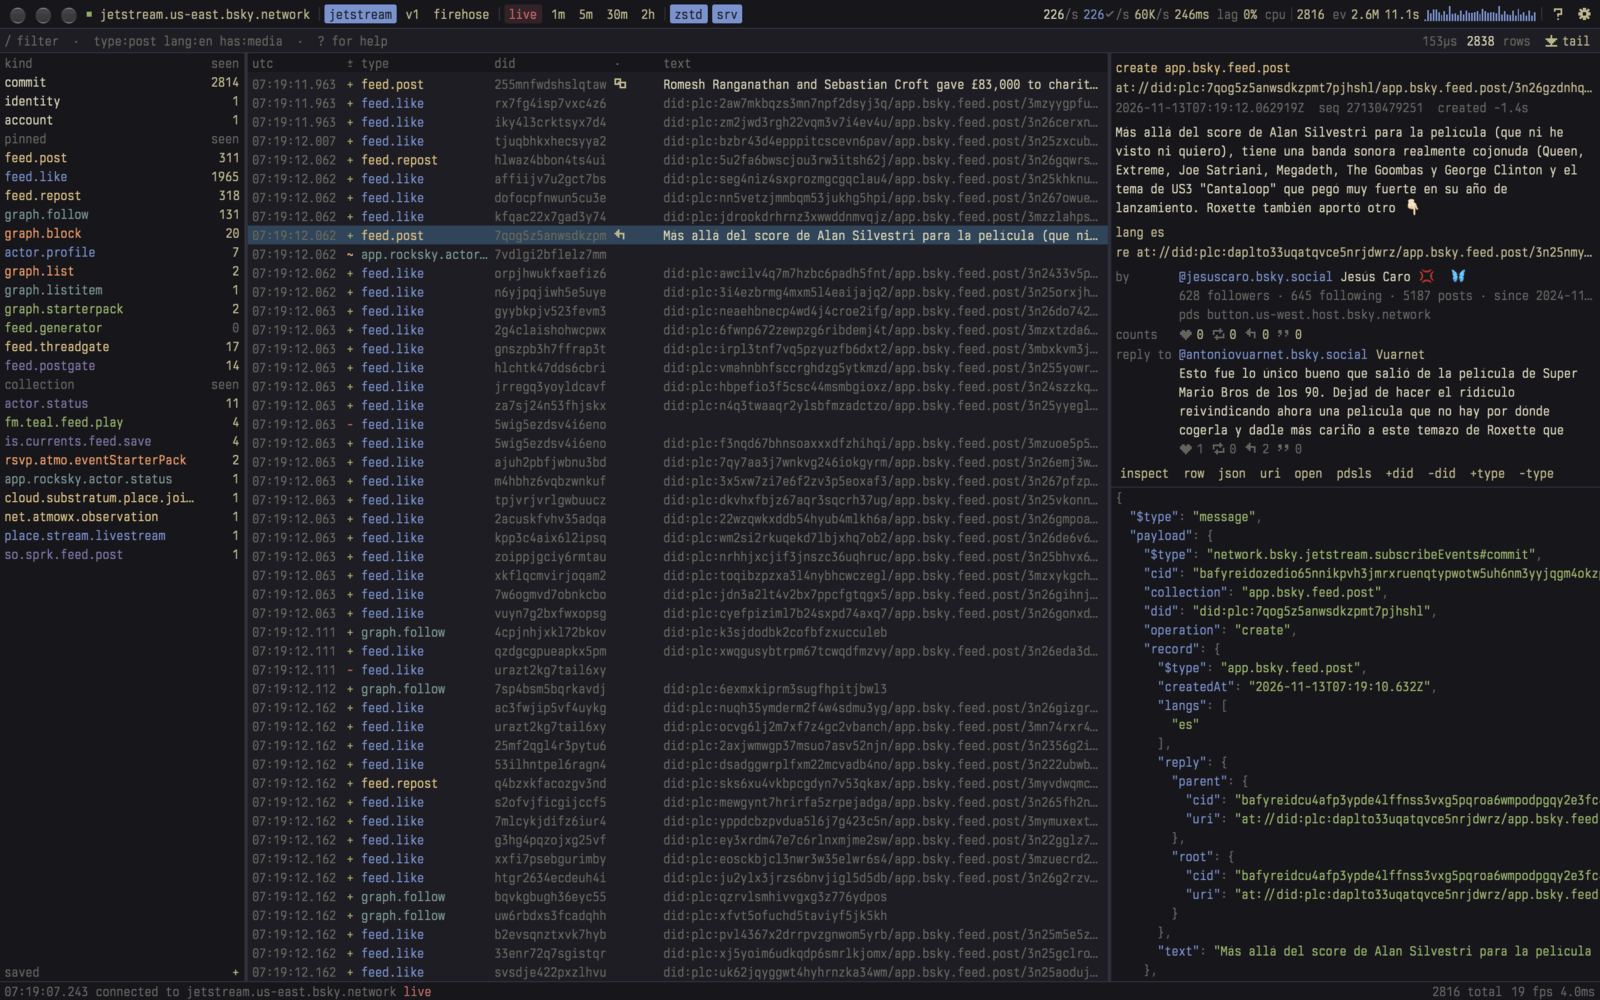
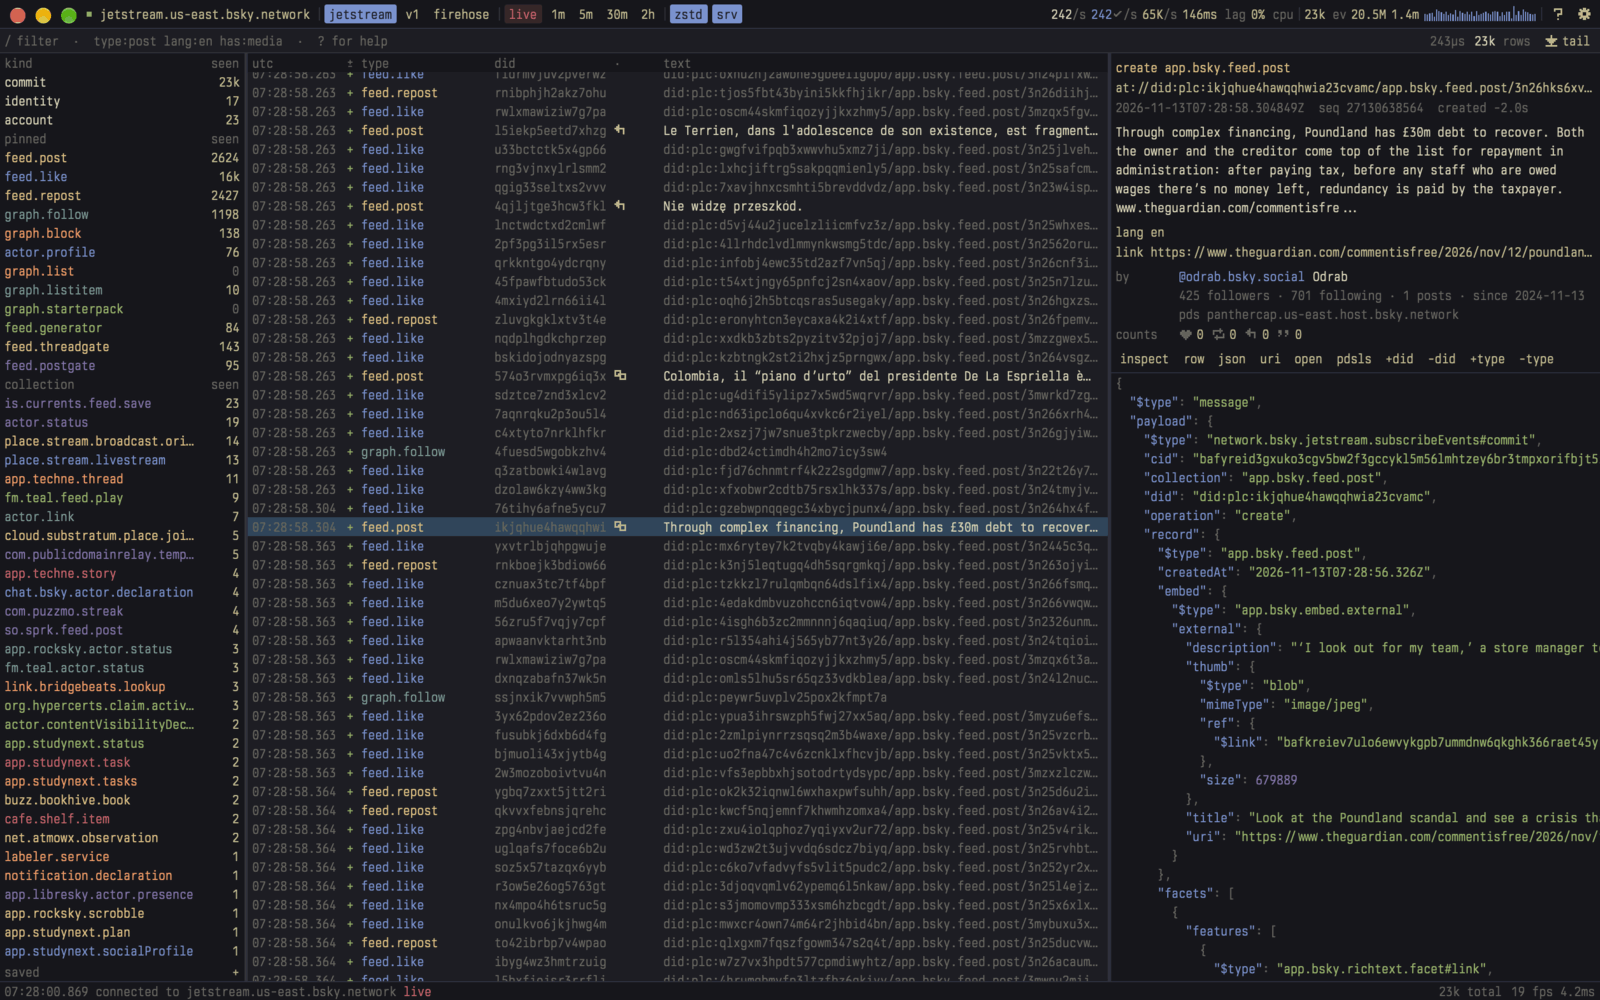
README: use a news story for the stream screenshot
- Debug hook select:<query> selects the newest event matching a filter query
  (without changing the visible filter) and scrolls it into view
- VORTEX_DEBUG_AT=<ticks> delays debug hooks so the buffer can fill

Claude-Session: https://claude.ai/code/session_534f7e5bd2d040a8adc2ca5625b4e1f6

diff --git a/crates/app/src/ui/app.rs b/crates/app/src/ui/app.rs
@@ -441,8 +441,9 @@ impl Vortex {
                 dirty = true;
             }
         }
+        // Fires ~5 s in by default; VORTEX_DEBUG_AT=<ticks> (30/s) to wait longer.
         #[cfg(debug_assertions)]
-        if self.ticks == 150 {
+        if self.ticks == std::env::var("VORTEX_DEBUG_AT").ok().and_then(|v| v.parse().ok()).unwrap_or(150) {
             self.debug_hook(cx);
         }
         if dirty {
@@ -484,14 +485,22 @@ impl Vortex {
     #[cfg(debug_assertions)]
     fn debug_hook(&mut self, cx: &mut Context<Self>) {
         match std::env::var("VORTEX_DEBUG").as_deref() {
-            Ok("select") => {
-                let id = {
+            // `select` (a recent post with some text) or `select:<query>` (the
+            // newest buffered event matching a filter query, without changing
+            // the visible filter); scrolls it into view.
+            Ok(v) if v == "select" || v.starts_with("select:") => {
+                let query = v.strip_prefix("select:").unwrap_or("type:post len>40");
+                let Ok(filter) = Filter::parse(query) else { return };
+                let found = {
                     let view = self.engine.store.view();
-                    (0..view.len()).rev().filter_map(|i| view.row(i)).find(|e| e.text().len() > 40).map(|e| e.id)
+                    (0..view.len()).rev().find_map(|i| view.row(i).filter(|e| filter.matches(e)).map(|e| (i, e.id)))
                 };
                 self.follow = false;
                 self.show_welcome = false;
-                self.select(id, cx);
+                self.select(found.map(|(_, id)| id), cx);
+                if let Some((ix, _)) = found {
+                    self.scroll.scroll_to_item(ix, ScrollStrategy::Center);
+                }
             }
             Ok("settings") => self.show_settings = true,
             Ok("badfilter") => self.set_query("type:post lnag:en (has:media", cx),

diff --git a/README.md b/README.md
@@ -357,12 +357,12 @@ cargo fmt                                             # rustfmt.toml: width 120
 ```
 
 Debug builds accept `VORTEX_DEBUG` to put the UI into a state a few seconds
-after launch, for screenshots and visual checks without driving the mouse or
-keyboard:
+after launch (`VORTEX_DEBUG_AT=<ticks>`, 30 per second, to wait longer), for
+screenshots and visual checks without driving the mouse or keyboard:
 
 | value | effect |
 | --- | --- |
-| `select` | select a recent post (closes the welcome screen) |
+| `select`, `select:<query>` | select a recent post, or the newest event matching a query; closes the welcome screen |
 | `settings` | open settings |
 | `inspect:<handle, DID or at:// URI>[#history\|#backlinks]` | open the inspector |
 | `palette:<text>` | open the palette with text |
